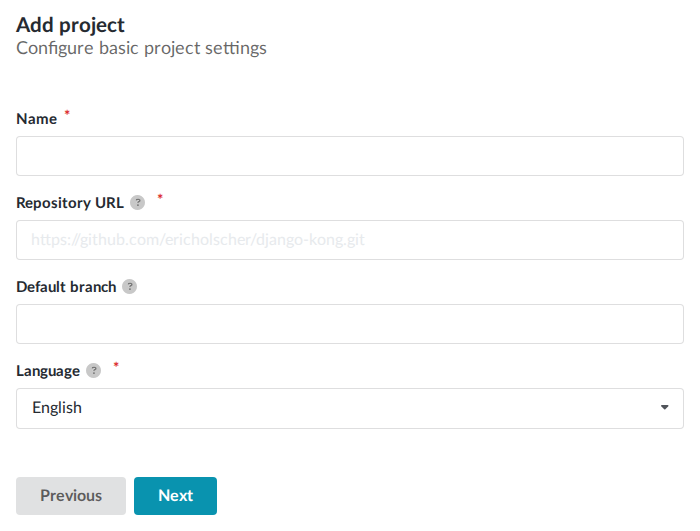
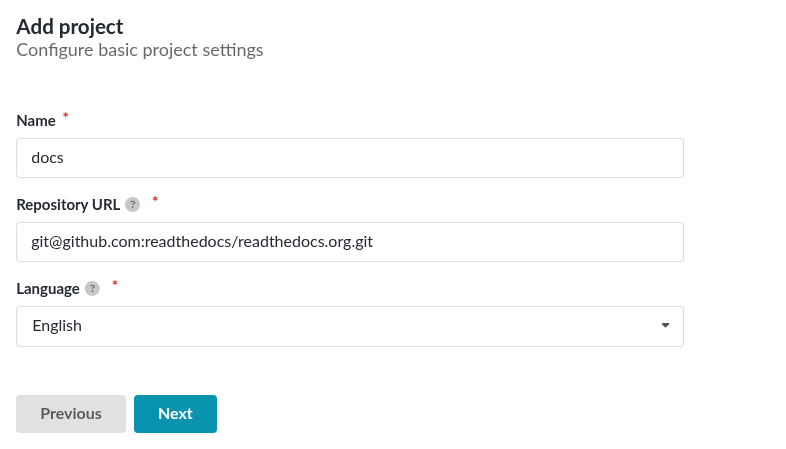
Updates to business docs

diff --git a/docs/user/guides/creating-project-private-repository.rst b/docs/user/guides/creating-project-private-repository.rst
@@ -67,8 +67,10 @@ In the next form page you will manually configure your project's repository deta
 
 4. In the :guilabel:`Repository URL` field, provide the repository's SSH or Git URL.
    This URL usually starts with ``git@...``, for example ``git@github.com:readthedocs/readthedocs.org.git``.
-#. In the :guilabel:`Default branch` field, provide the name of the default remote branch.
-   This is usually ``main`` or ``master``.
+#. Click :guilabel:`Next`, select :guilabel:`Build on Read the Docs`,
+   and follow the instructions to add a :doc:`configuration file </config-file/index>` to your repository.
+   The project uses your repository's default branch,
+   you can change it later in the :guilabel:`Default branch` field of your project's :menuselection:`Settings`.
 #. The project's first build should fail to clone your repository.
    This is expected, your repository is not configured to allow access yet.
 
